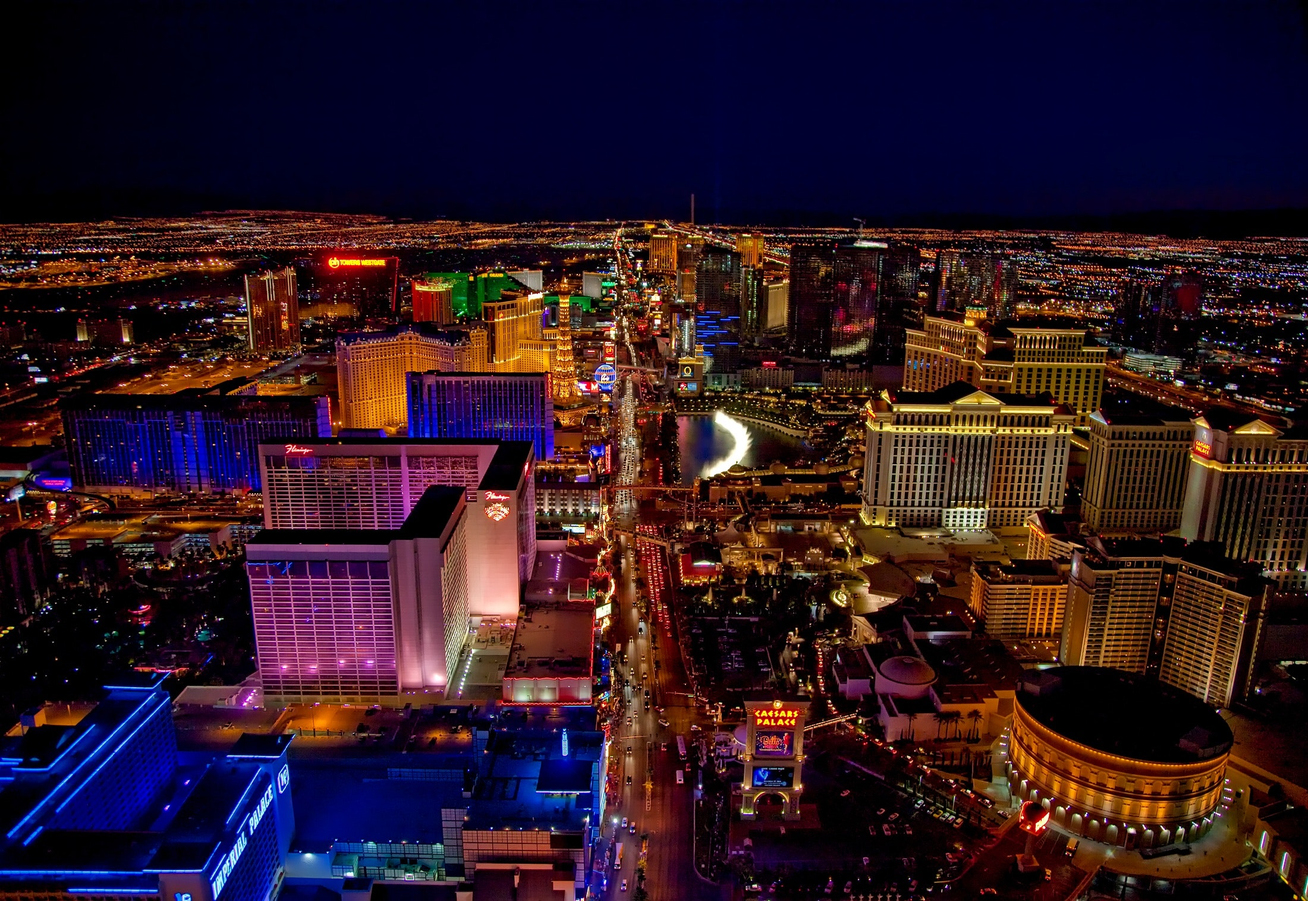
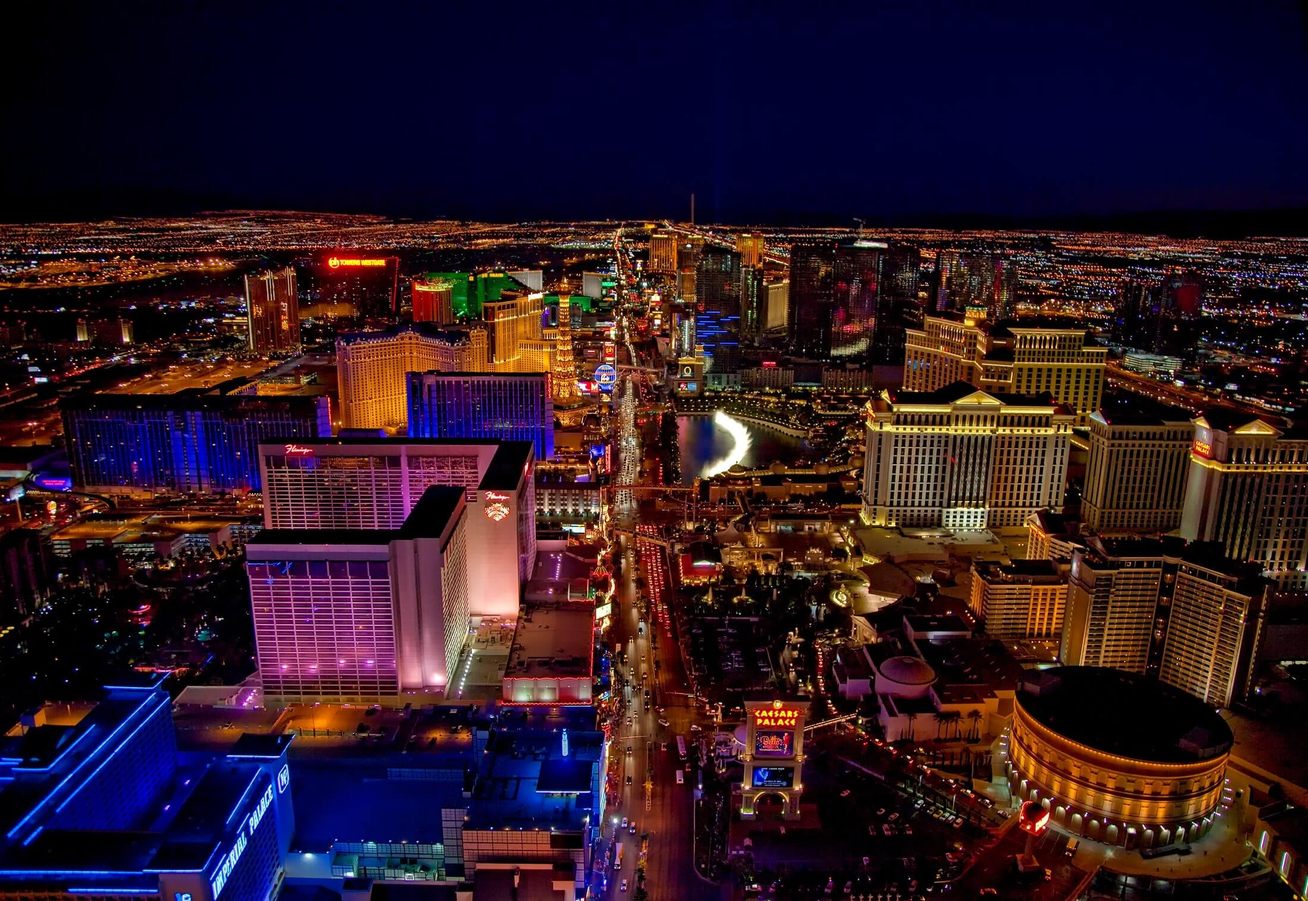
Convert Jpg and Png to WegP format

diff --git a/projects.html b/projects.html
@@ -24,7 +24,7 @@
             <div class="project-main">
                 <a href="https://lupef.github.io/Settings-Panel/">
                     <div class="content-cont">
-                        <img src="images/rsz_1screenshot_2025-02-17_at_32123 pm.png" alt="Image of Settings Panel">
+                        <img src="images/rsz_1screenshot_2025-02-17_at_32123 pm.webp" alt="Image of Settings Panel">
                         <div class="content">
                             <h2>Local Storage</h2>
                             <p>Created a Settings Panel that uses Local Storage to save the settings when reloading the webpage. Also, I included a "Dark-Mode" feature and "Delete" Profile modal.</p>
@@ -33,7 +33,7 @@
                 </a>
                 <a href="https://lupef.github.io/business-card/">
                     <div class="content-cont">
-                        <img src="images/rsz_screenshot_2025-02-17_at_121805 pm.png" alt="Image of a 3D digital card">
+                        <img src="images/rsz_screenshot_2025-02-17_at_121805 pm.webp" alt="Image of a 3D digital card">
                         <div id="animation-card" class="content">
                             <h2>Animation</h2>
                             <p>Created a Digital Card using 3D animations to flip the Card over.</p>
@@ -42,7 +42,7 @@
                 </a>
                 <a href="https://lupef.github.io/Project--8/">
                     <div class="content-cont">
-                        <img src="images/rsz_screenshot_2025-02-17_at_122628 pm.png" alt="Image of search directory">
+                        <img src="images/rsz_screenshot_2025-02-17_at_122628 pm.webp" alt="Image of search directory">
                         <div id="api" class="content">
                             <h2>API</h2>
                             <p>An employee directory by communicating with a third-party API (Application Programming Interface).</p>
@@ -51,7 +51,7 @@
                 </a>
                 <a href="https://lupef.github.io/FAQ-accordian//">
                     <div class="content-cont">
-                        <img src="images/rsz_screenshot_2025-02-24_at_23252 pm.png" alt="Image of a FAQ-accordian">
+                        <img src="images/rsz_screenshot_2025-02-24_at_23252 pm.webp" alt="Image of a FAQ-accordian">
                         <div id="accordian-card" class="content">
                             <h2>FAQ-accordian</h2>
                             <p>A Front End Mentor Challenge, Creating a "FAQ-accordian".</p>
@@ -60,7 +60,7 @@
                 </a>
                 <a href="https://lupef.github.io/Recipe-Page/">
                     <div class="content-cont">
-                        <img src="images/rsz_screenshot_2025-03-08_at_13032 pm.png" alt="Image of a Recipe-Page">
+                        <img src="images/rsz_screenshot_2025-03-08_at_13032 pm.webp" alt="Image of a Recipe-Page">
                         <div id="accordian-card" class="content">
                             <h2>Recipe-Page</h2>
                             <p>A Front End Mentor Challenge, Creating a "Recipe-Page".</p>
@@ -69,7 +69,7 @@
                 </a>
                 <a href="https://lupef.github.io/FrontEnd-social-media-links/">
                     <div class="content-cont">
-                        <img src="images/rsz_screenshot_2025-03-08_at_13919 pm.png" alt="Image of a Recipe-Page">
+                        <img src="images/rsz_screenshot_2025-03-08_at_13919 pm.webp" alt="Image of a Recipe-Page">
                         <div id="accordian-card" class="content">
                             <h2>Social-Media Links</h2>
                             <p>A Front End Mentor Challenge, Creating a "Social-Media Profile".</p>
@@ -81,7 +81,7 @@
         <div class="logo-container">
             <a href="https://github.com/LupeF?tab=repositories">
                 <img class="logo" src="images/github-svgrepo-com.svg" alt="GitHub logo">
-                <img src="images/GitHub_Logo_White.png" alt="GitHub Logo">
+                <img src="images/GitHub_Logo_White.webp" alt="GitHub Logo">
             </a>
         </div>
     </main>

diff --git a/scss/components/_projects.scss b/scss/components/_projects.scss
@@ -1,37 +1,30 @@
 #projects-body{
     @media(min-width:768px){
-        // width: 90%;
         min-height: 80vh;
     }
 }
 #heading {
     font-size: 4em;
     font-family: "Caveat", serif;
-    // font-optical-sizing: auto;
     font-weight: 400;
     font-style: normal;
 }
 .slider-container{
-    
     .project-main{
         width: min(90%, 800px)
-
         a{
             height: 90%;
         }
         @media(min-width:1024px){
       
         }
-        
         @media(min-width:768px) {
             display: grid;
             gap: 1em;
-            grid-template-columns: repeat(3, 1fr);
-                    
+            grid-template-columns: repeat(3, 1fr);     
             }
        
         .content-cont {
-            // background-color: gray;
             height: 100%;
             color: white;
             max-width: 350px;
@@ -43,13 +36,11 @@
             @media(min-width:768px){
                 &:hover .content{
                     background-color: rgba(33, 32, 32, 0.8); 
+                }
             }
-            }
-           
             img{
                 aspect-ratio: 1/1;
                 border-radius: 5px;
-                // object-fit: cover;
                 @media(min-width:2400px){
                     width: 100%;
                     height: 100%;
@@ -69,7 +60,6 @@
                     transform: translateX(100%);
                     opacity: 0;
                 }
-               
             }
             h2{
                 margin-bottom: 0;
@@ -103,7 +93,6 @@
     }
     transform: translateY(-50%);
 }
-
 .logo-container{
     display: flex;
     align-items: center;

diff --git a/css/styles.css b/css/styles.css
@@ -5,7 +5,7 @@
 }
 @media (min-width: 768px) {
   #about-body {
-    background: linear-gradient(to bottom, rgba(0, 0, 0, 0.5) 0%, rgba(0, 0, 0, 0.5) 50%, #000 50%, #000 100%), url("../images/aerial-photography-of-city-during-evening-161772.jpg") no-repeat center top;
+    background: linear-gradient(to bottom, rgba(0, 0, 0, 0.5) 0%, rgba(0, 0, 0, 0.5) 50%, #000 50%, #000 100%), url("../images/aerial-photography-of-city-during-evening-161772.webp") no-repeat center top;
     background-size: cover;
     background-attachment: fixed;
   }

diff --git a/about.html b/about.html
@@ -24,7 +24,7 @@
             <p>Based out of Las Vegas, I am working toward becoming a front-end developer, blending my passion for design and technology to create seamless web experiences.</p>
         </div>
         <div class="img-cont">
-            <img src="images/rsz_1img_9949.jpg" alt="">
+            <img src="images/rsz_1img_9949.webp" alt="">
         </div>
         <div class="skills-cont">
             <h2>Skills</h2>

diff --git a/scss/components/_about.scss b/scss/components/_about.scss
@@ -8,7 +8,7 @@
                 #000 50%,
                 #000 100%
             ),
-            url("../images/aerial-photography-of-city-during-evening-161772.jpg") no-repeat center top;
+            url("../images/aerial-photography-of-city-during-evening-161772.webp") no-repeat center top;
         background-size: cover;
         background-attachment: fixed; // Optional, for parallax effect
     }
